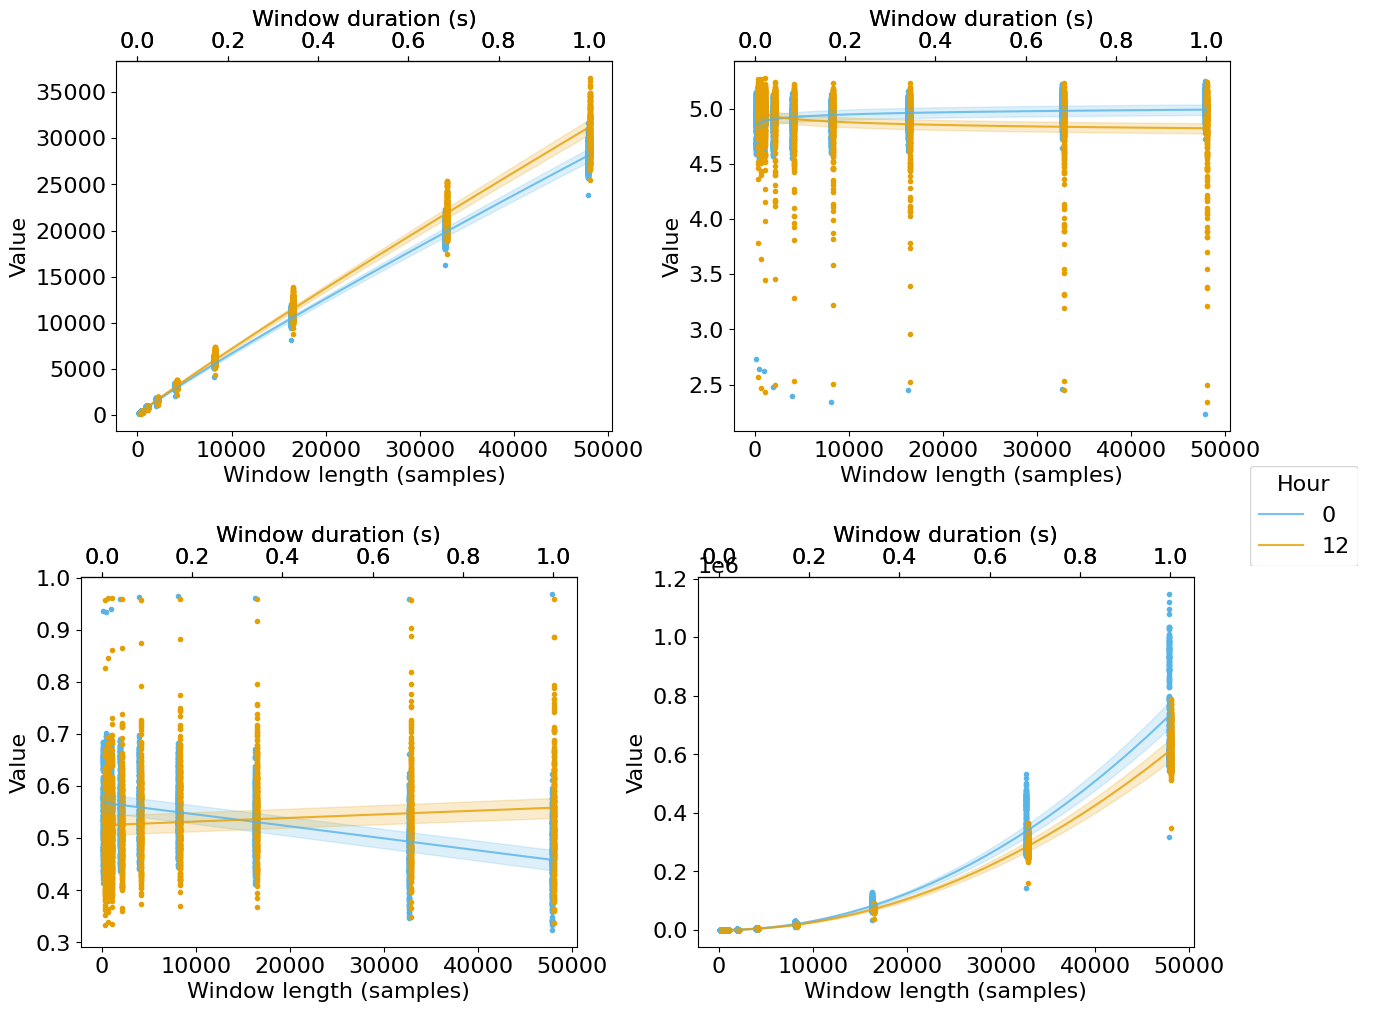
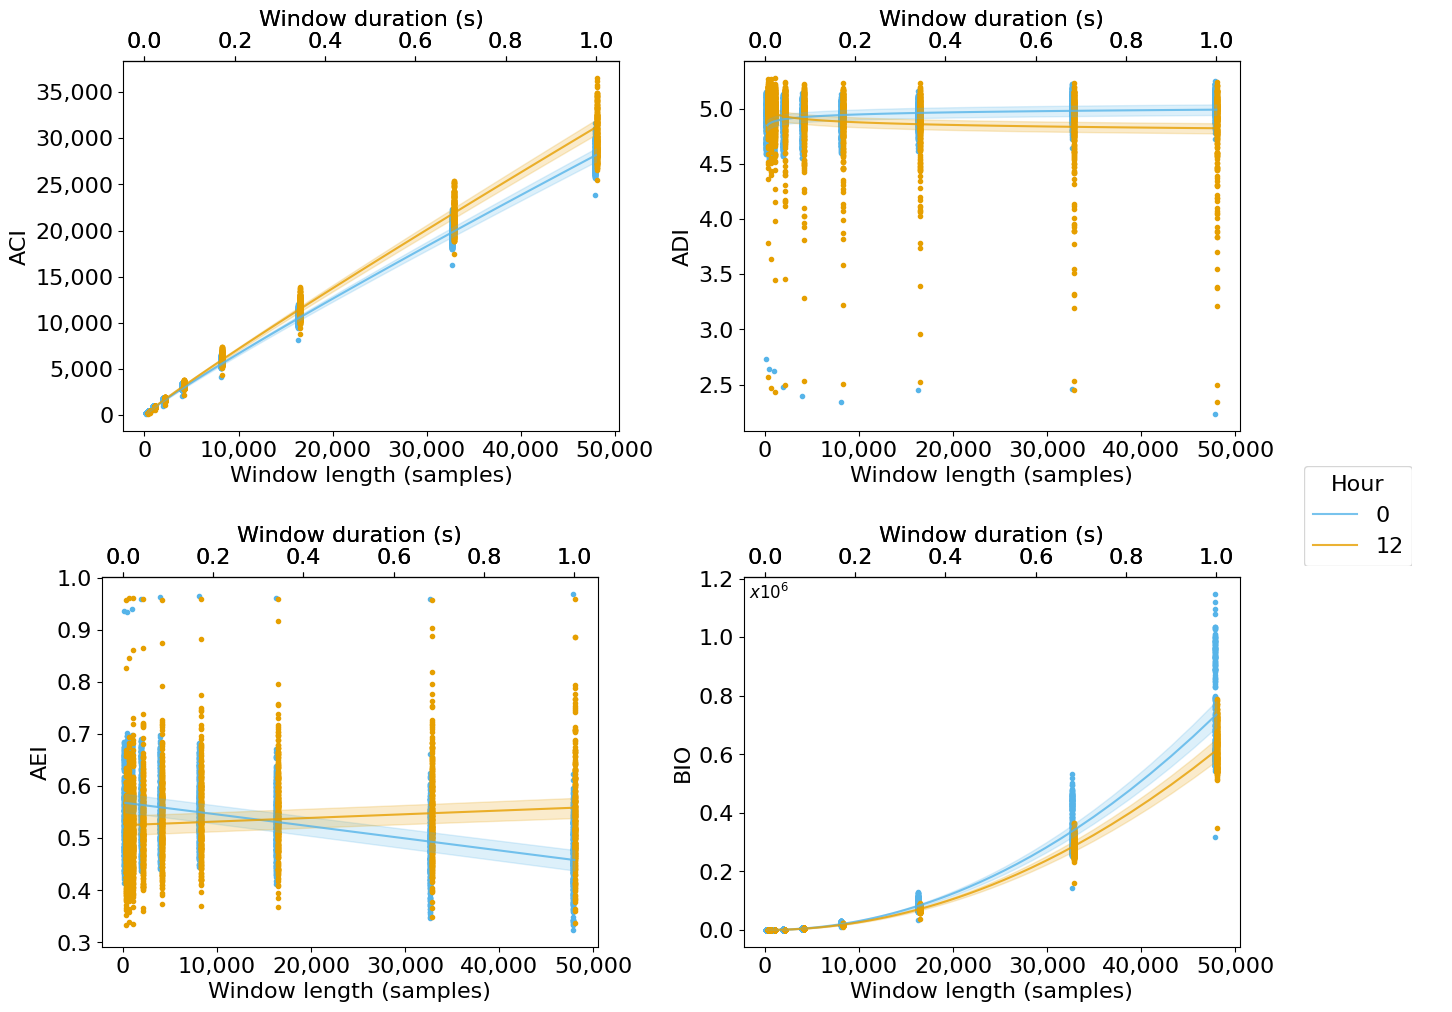
plot updates

diff --git a/tools/plot_combiner.py b/tools/plot_combiner.py
@@ -22,8 +22,34 @@ class PlotCombiner:
         for buf in self.fig_bufs:
             buf.close()
 
+    @classmethod
+    def fig_changer(cls, fig, filename):
+        ax = fig.gca()
+        if "Value" in ax.get_ylabel():
+            filename = str(filename)
+            if "ACI" in filename:
+                replacement = "ACI"
+            if "ADI" in filename:
+                replacement = "ADI"
+            if "AEI" in filename:
+                replacement = "AEI"
+            if "BIO" in filename:
+                replacement = "BIO"
+            ax.set_ylabel(replacement)
+            t = ax.yaxis.get_offset_text()
+            text = t.get_text()
+            if text:
+                t.set_visible(False)
+
+        if ax.get_xlabel() == "Window":
+            ax.set_xlabel("Window length (samples)")
+        cls.format_axis_numbers(ax)
+        fig.canvas.draw()
+        fig.canvas.flush_events()
+
     def open_figure(self, filename, discard_lgd=False):
         fig = pickle.load(open(filename, 'rb'))
+        self.fig_changer(fig, filename)
         lgd = fig.get_axes()[0].get_legend()
         if lgd is None:
             buf = None
@@ -35,11 +61,6 @@ class PlotCombiner:
             self.fig_bufs.append(buf)
             self.export_legend(lgd, buf)
             lgd.remove()
-
-        ax = fig.gca()
-        if ax.get_xlabel() == "Window":
-            ax.set_xlabel("Window length (samples)")
-        # self.format_axis_numbers(ax)
 
         return fig, buf
 
@@ -83,11 +104,17 @@ class PlotCombiner:
             lgd_width += lgd.size[0] + spacing
 
         max_width = 0
+        max_col_width = [0] * imgs_per_row
         max_height = 0
         for i in range(0, len(subset), imgs_per_row):
-            row_width = sum(widths[i:i+imgs_per_row])
+            col_widths = widths[i:i+imgs_per_row]
+            row_width = sum(col_widths) + imgs_per_row * spacing
+            for j in range(imgs_per_row):
+                max_col_width[j] = max(max_col_width[j], col_widths[j])
+
             max_width = max(max_width, row_width)
             max_height += max(heights[i:i+imgs_per_row])
+
 
         total_width = max_width + lgd_width
         total_height = ceil(max(heights) * rows) + (rows - 1) * (int(spacing))
@@ -101,8 +128,9 @@ class PlotCombiner:
                 y_offset += im.size[1] + spacing
                 x_offset = 0
 
-            new_im.paste(im, (x_offset,y_offset))
-            x_offset += im.size[0]
+            adjusted_pos = int((max_col_width[i%imgs_per_row] - im.size[0]) / 2)
+            new_im.paste(im, (x_offset + adjusted_pos,y_offset))
+            x_offset += max(im.size[0], max_col_width[i % imgs_per_row])
 
         filler = ceil(im.size[0] * (imgs_per_row - len(final)) / imgs_per_row)
         x_offset = filler
@@ -148,25 +176,34 @@ class PlotCombiner:
         return filenames
 
     @classmethod
-    def format_numbers_for_one_axis(cls, tg, ts, lg, ls):
+    def format_numbers_for_one_axis(cls, ax, pos, tg, ts, lg, ls):
         labels = tg()
+        # ts(labels)
         max_exponent = max([int("{:.2e}".format(x).split('e')[1]) for x in labels])
-        if max_exponent > 3:
+        if max_exponent > 4:
             new_labels = [int(x) / 10**max_exponent for x in labels]
-            ts(labels, new_labels)
-            label = lg()
-            ls(f"{label} (x10^{max_exponent})")
+            ax.text(*pos, f"$x10^{max_exponent}$", transform=ax.transAxes, fontsize=12)
+        elif max_exponent > 2:
+            new_labels = [f"{int(x):,}" for x in labels]
+        else:
+            new_labels = lg()
+
+        ls(new_labels)
 
     @classmethod
     def format_axis_numbers(cls, ax):
-        cls.format_numbers_for_one_axis(ax.get_xticks,
+        cls.format_numbers_for_one_axis(ax,
+                                        (1.02,-0.01),
+                                        ax.get_xticks,
                                         ax.set_xticks,
-                                        ax.get_xlabel,
-                                        ax.set_xlabel)
-        cls.format_numbers_for_one_axis(ax.get_yticks,
+                                        ax.get_xticklabels,
+                                        ax.set_xticklabels)
+        cls.format_numbers_for_one_axis(ax,
+                                        (0.01, 0.94),
+                                        ax.get_yticks,
                                         ax.set_yticks,
-                                        ax.get_ylabel,
-                                        ax.set_ylabel)
+                                        ax.get_yticklabels,
+                                        ax.set_yticklabels)
 
     @classmethod
     def update_axis_font_size(cls, ax, size=16):
